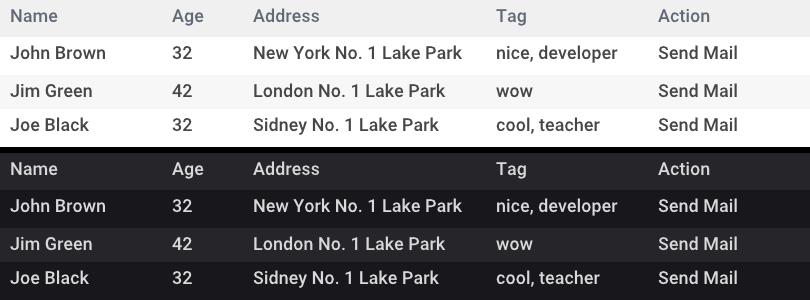
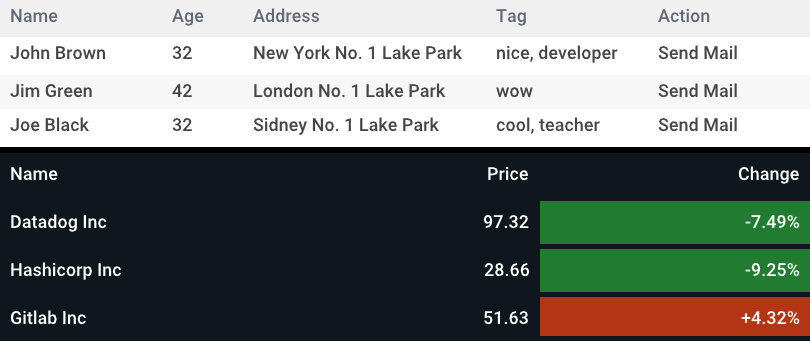
feat: support text align for table cell

diff --git a/examples/table/main.go b/examples/table/main.go
@@ -5,6 +5,7 @@ import (
 	"os"
 	"path/filepath"
 	"strconv"
+	"strings"
 
 	"github.com/vicanso/go-charts/v2"
 	"github.com/wcharczuk/go-chart/v2/drawing"
@@ -84,38 +85,83 @@ func main() {
 		panic(err)
 	}
 
+	bgColor := charts.Color{
+		R: 16,
+		G: 22,
+		B: 30,
+		A: 255,
+	}
 	p, err = charts.TableOptionRender(charts.TableChartOption{
-		Header: header,
-		Data:   data,
-		CellTextStyle: func(tc charts.TableCell) *charts.Style {
-			row := tc.Row
-			column := tc.Column
-			style := tc.Style
-			if column == 1 && row != 0 {
-				age, _ := strconv.Atoi(tc.Text)
-				if age < 40 {
-					style.FontColor = drawing.ColorGreen
-				} else {
-					style.FontColor = drawing.ColorRed
-				}
-				return &style
-			}
-			return nil
+		Header: []string{
+			"Name",
+			"Price",
+			"Change",
+		},
+		BackgroundColor:       bgColor,
+		HeaderBackgroundColor: bgColor,
+		RowBackgroundColors: []charts.Color{
+			bgColor,
+		},
+		HeaderFontColor: drawing.ColorWhite,
+		FontColor:       drawing.ColorWhite,
+		Padding: charts.Box{
+			Top:    15,
+			Right:  10,
+			Bottom: 15,
+			Left:   10,
+		},
+		Data: [][]string{
+			{
+				"Datadog Inc",
+				"97.32",
+				"-7.49%",
+			},
+			{
+				"Hashicorp Inc",
+				"28.66",
+				"-9.25%",
+			},
+			{
+				"Gitlab Inc",
+				"51.63",
+				"+4.32%",
+			},
+		},
+		TextAligns: []string{
+			"",
+			charts.AlignRight,
+			charts.AlignRight,
 		},
 		CellStyle: func(tc charts.TableCell) *charts.Style {
-			row := tc.Row
 			column := tc.Column
-			if row == 2 && column == 1 {
-				return &charts.Style{
-					FillColor: drawing.ColorBlue,
+			if column != 2 {
+				return nil
+			}
+			value, _ := strconv.ParseFloat(strings.Replace(tc.Text, "%", "", 1), 64)
+			if value == 0 {
+				return nil
+			}
+			style := charts.Style{
+				Padding: charts.Box{
+					Bottom: 5,
+				},
+			}
+			if value > 0 {
+				style.FillColor = charts.Color{
+					R: 179,
+					G: 53,
+					B: 20,
+					A: 255,
+				}
+			} else if value < 0 {
+				style.FillColor = charts.Color{
+					R: 33,
+					G: 124,
+					B: 50,
+					A: 255,
 				}
 			}
-			if row == 3 && column == 4 {
-				return &charts.Style{
-					FillColor: drawing.ColorRed.WithAlpha(100),
-				}
-			}
-			return nil
+			return &style
 		},
 	})
 	if err != nil {

diff --git a/table.go b/table.go
@@ -70,8 +70,10 @@ type TableChartOption struct {
 	Header []string
 	// The data of table
 	Data [][]string
-	// The span of table column
+	// The span list of table column
 	Spans []int
+	// The text align list of table cell
+	TextAligns []string
 	// The font size of table
 	FontSize float64
 	// The font family, which should be installed first
@@ -271,6 +273,13 @@ func (t *tableChart) render() (*renderInfo, error) {
 			return nil
 		}
 	}
+	// textAligns := opt.TextAligns
+	getTextAlign := func(index int) string {
+		if len(opt.TextAligns) <= index {
+			return ""
+		}
+		return opt.TextAligns[index]
+	}
 
 	// 表格单元的处理
 	renderTableCells := func(
@@ -299,7 +308,7 @@ func (t *tableChart) render() (*renderInfo, error) {
 			width := values[index+1] - x
 			x += cellPadding.Left
 			width -= paddingWidth
-			box := p.TextFit(text, x, y+int(fontSize), width)
+			box := p.TextFit(text, x, y+int(fontSize), width, getTextAlign(index))
 			// 计算最高的高度
 			if box.Height()+paddingHeight > cellMaxHeight {
 				cellMaxHeight = box.Height() + paddingHeight
@@ -342,7 +351,7 @@ func (t *tableChart) renderWithInfo(info *renderInfo) (Box, error) {
 	p.SetBackground(info.Width, info.HeaderHeight, headerBGColor, true)
 	currentHeight := info.HeaderHeight
 	rowColors := opt.RowBackgroundColors
-	if len(rowColors) == 0 {
+	if rowColors == nil {
 		rowColors = tableDefaultSetting.RowColors
 	}
 	for index, h := range info.RowHeights {
@@ -375,12 +384,13 @@ func (t *tableChart) renderWithInfo(info *renderInfo) (Box, error) {
 					Column: j,
 				})
 				if style != nil && !style.FillColor.IsZero() {
+					padding := style.Padding
 					child := p.Child(PainterPaddingOption(Box{
-						Top:  top,
-						Left: left,
+						Top:  top + padding.Top,
+						Left: left + padding.Left,
 					}))
-					w := info.ColumnWidths[j]
-					h := heights[i]
+					w := info.ColumnWidths[j] - padding.Left - padding.Top
+					h := heights[i] - padding.Top - padding.Bottom
 					child.SetBackground(w, h, style.FillColor, true)
 				}
 				left += info.ColumnWidths[j]

diff --git a/painter.go b/painter.go
@@ -545,7 +545,7 @@ func (p *Painter) Text(body string, x, y int) *Painter {
 	return p
 }
 
-func (p *Painter) TextFit(body string, x, y, width int) chart.Box {
+func (p *Painter) TextFit(body string, x, y, width int, textAligns ...string) chart.Box {
 	style := p.style
 	textWarp := style.TextWrap
 	style.TextWrap = chart.TextWrapWord
@@ -554,14 +554,24 @@ func (p *Painter) TextFit(body string, x, y, width int) chart.Box {
 	p.SetTextStyle(style)
 	var output chart.Box
 
+	textAlign := ""
+	if len(textAligns) != 0 {
+		textAlign = textAligns[0]
+	}
 	for index, line := range lines {
 		if line == "" {
 			continue
 		}
 		x0 := x
 		y0 := y + output.Height()
-		p.Text(line, x0, y0)
 		lineBox := r.MeasureText(line)
+		switch textAlign {
+		case AlignRight:
+			x0 += width - lineBox.Width()
+		case AlignCenter:
+			x0 += (width - lineBox.Width()) >> 1
+		}
+		p.Text(line, x0, y0)
 		output.Right = chart.MaxInt(lineBox.Right, output.Right)
 		output.Bottom += lineBox.Height()
 		if index < len(lines)-1 {
